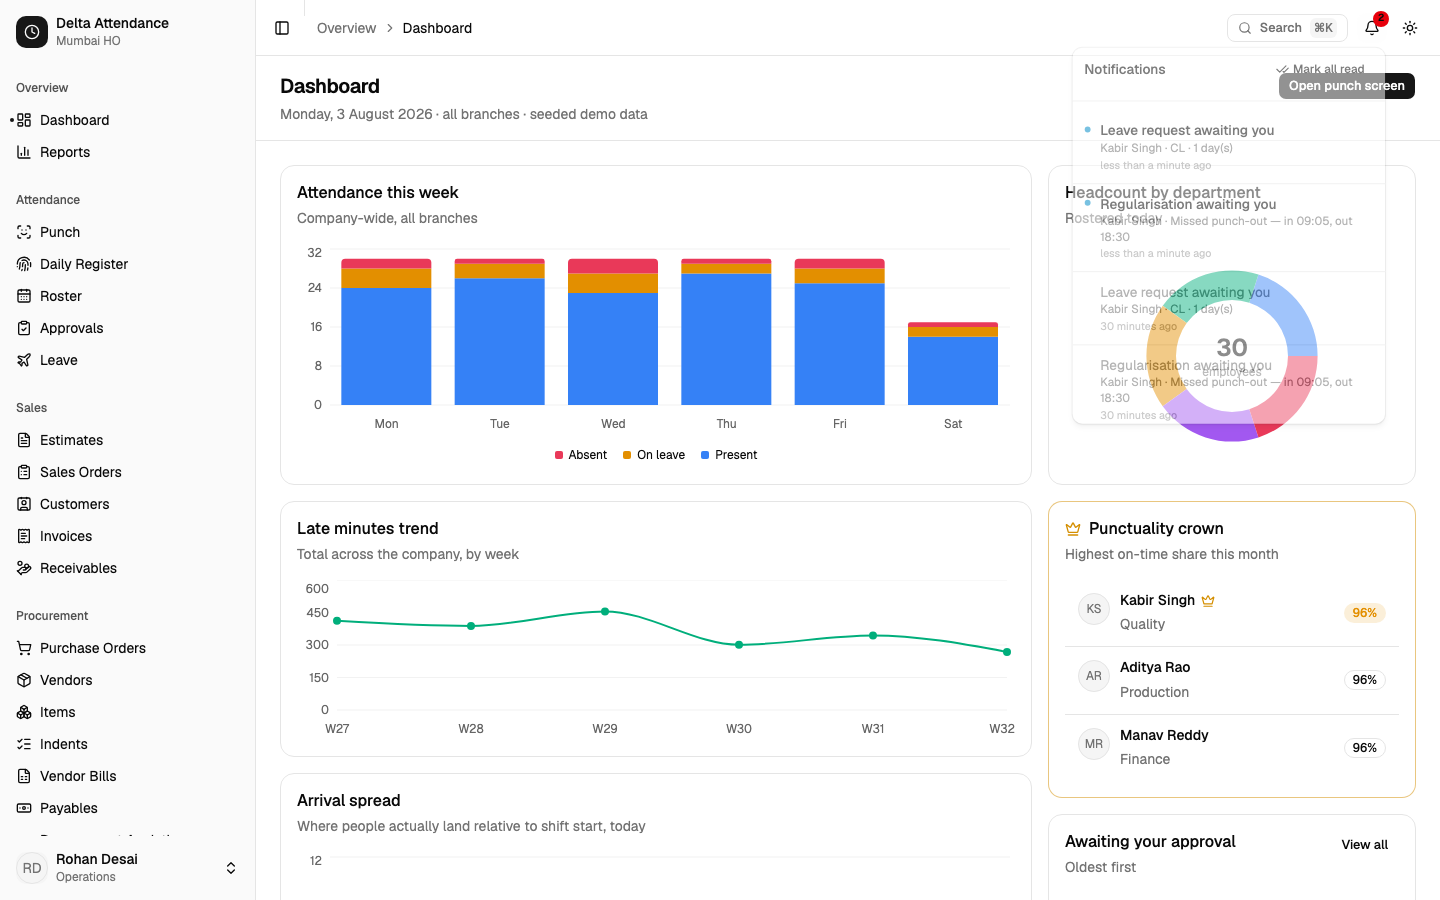
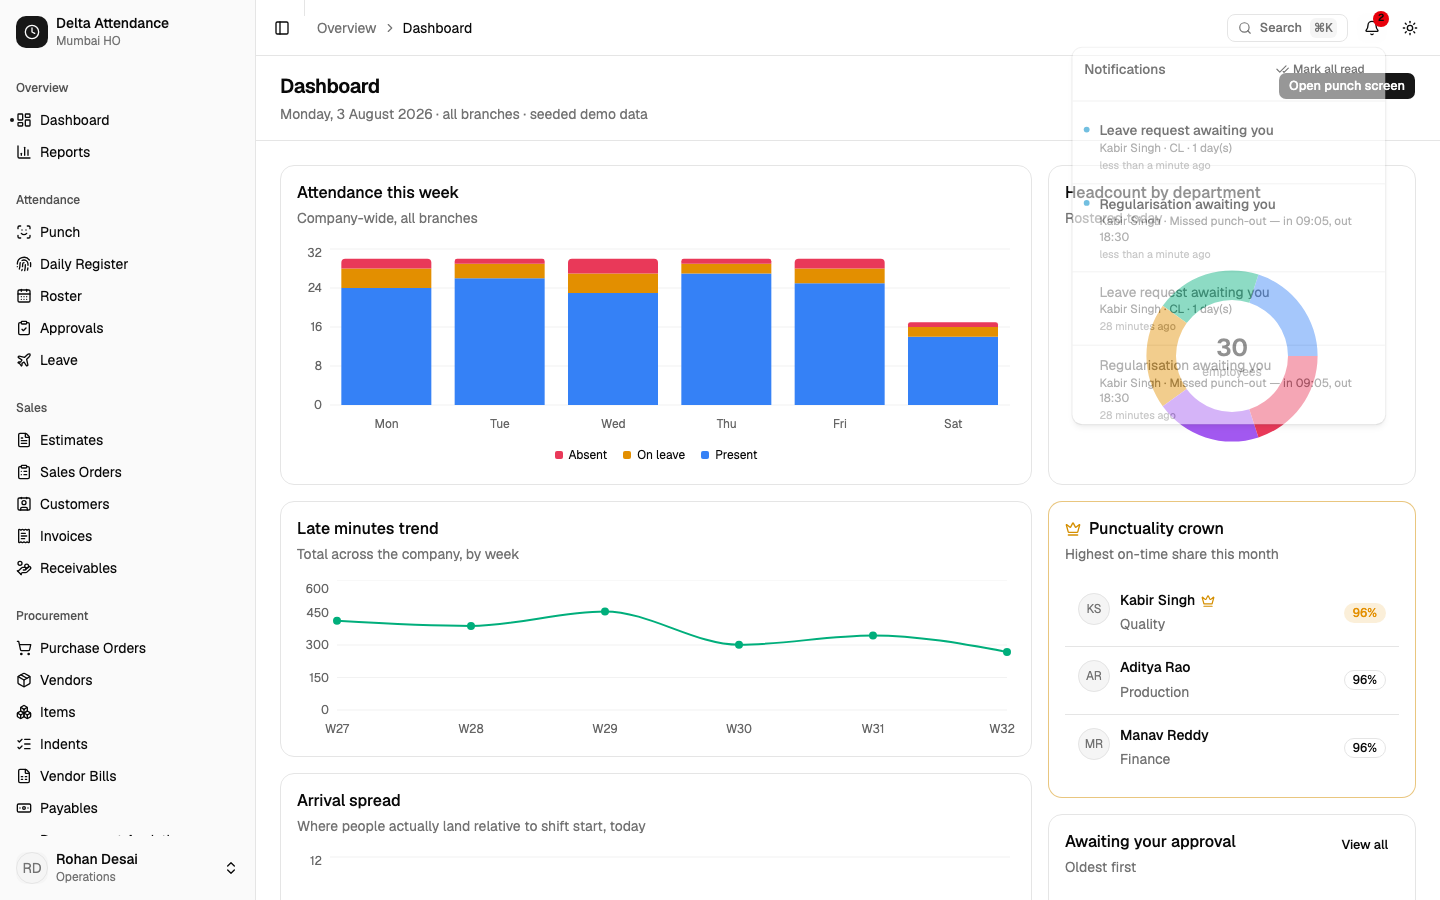
Overtime a corrected day earns can be claimed, capped at what the day computes

diff --git a/apps/api/test/api.test.ts b/apps/api/test/api.test.ts
@@ -2746,3 +2746,111 @@ describe("a month that closes mid-flight cannot be written into", () => {
     expect(store.punches.filter((punch) => punch.businessDate === "2026-08-06")).toHaveLength(0)
   })
 })
+
+describe("overtime a corrected day earns is not stranded", () => {
+  const punch = async (cookie: string, type: "IN" | "OUT", at: string, key: string) =>
+    app.inject({
+      method: "POST",
+      url: "/punches",
+      headers: { cookie },
+      payload: punchBody({ type, at, idempotencyKey: key }),
+    })
+
+  it("a top-up claims only the difference, never the whole day again", async () => {
+    const employee = await asEmployee()
+    // 09:00 → 20:00 on a 9h shift: two hours of overtime.
+    await punch(employee.cookies, "IN", "2026-08-05T09:00", "topup-in-1")
+    await punch(employee.cookies, "OUT", "2026-08-05T20:00", "topup-out-1")
+
+    const first = await app.inject({
+      method: "POST",
+      url: "/overtime/claims",
+      headers: { cookie: employee.cookies },
+      payload: { date: "2026-08-05" },
+    })
+    expect(first.statusCode).toBe(201)
+    const firstMinutes = first.json().otMinutes
+    expect(firstMinutes).toBe(120)
+
+    // Claiming again with nothing new is still refused.
+    const again = await app.inject({
+      method: "POST",
+      url: "/overtime/claims",
+      headers: { cookie: employee.cookies },
+      payload: { date: "2026-08-05" },
+    })
+    expect(again.statusCode).toBe(409)
+    expect(again.json().claimedMinutes).toBe(120)
+
+    // The day grows by an hour — as an approved regularisation would do.
+    store.punches.push({
+      id: "p_topup_late_out",
+      employeeId: "e4",
+      type: "OUT",
+      businessDate: "2026-08-05",
+      offsetMin: 720,
+      at: "2026-08-05T21:00",
+      accuracyM: 0,
+      dayPart: "FULL",
+      flags: ["REGULARISED"],
+      idempotencyKey: "reg_topup_OUT",
+    })
+
+    const topUp = await app.inject({
+      method: "POST",
+      url: "/overtime/claims",
+      headers: { cookie: employee.cookies },
+      payload: { date: "2026-08-05" },
+    })
+    expect(topUp.statusCode).toBe(201)
+    // Only the extra hour, not the whole three.
+    expect(topUp.json().otMinutes).toBe(60)
+
+    const claimed = store.approvals
+      .filter((approval) => approval.kind === "OVERTIME" && approval.dateFrom === "2026-08-05")
+      .reduce((sum, approval) => sum + approval.units, 0)
+    expect(claimed).toBe(180)
+  })
+
+  it("payroll still refuses to pay more than the day earned", async () => {
+    const employee = await asEmployee()
+    await punch(employee.cookies, "IN", "2026-08-05T09:00", "cap-in-1")
+    await punch(employee.cookies, "OUT", "2026-08-05T20:00", "cap-out-1")
+    const claim = await app.inject({
+      method: "POST",
+      url: "/overtime/claims",
+      headers: { cookie: employee.cookies },
+      payload: { date: "2026-08-05" },
+    })
+    const manager = await asOps()
+    await app.inject({
+      method: "POST",
+      url: `/approvals/${claim.json().approval.id}/decide`,
+      headers: { cookie: manager.cookies },
+      payload: { action: "APPROVE", remarks: "ok" },
+    })
+
+    // Someone inflates the approved figure directly.
+    const approval = store.approvals.find((row) => row.id === claim.json().approval.id)!
+    approval.units = 10_000
+
+    const admin = await asAdmin()
+    await app.inject({
+      method: "POST",
+      url: "/payroll/locks",
+      headers: { cookie: admin.cookies },
+      payload: { month: "2026-08" },
+    })
+    const run = await app.inject({
+      method: "POST",
+      url: "/payroll/runs",
+      headers: { cookie: admin.cookies },
+      payload: { month: "2026-08" },
+    })
+    const item = run
+      .json()
+      .run.items.find((candidate: { employeeId: string }) => candidate.employeeId === "e4")
+    // Capped at what the day actually earned.
+    expect(item.otMinutes).toBe(120)
+  })
+})

diff --git a/apps/api/src/server.ts b/apps/api/src/server.ts
@@ -1673,26 +1673,44 @@ export function buildServer(store: Store = seedStore(), options: { exportsDir?: 
       if (day.otMinutes <= 0)
         return reply.code(422).send({ error: "NO_OVERTIME_ON_DAY" })
 
-      const duplicate = store.approvals.find(
-        (approval) =>
-          approval.kind === "OVERTIME" &&
-          approval.employeeId === employee.id &&
-          approval.dateFrom === date &&
-          approval.status !== "REJECTED"
-      )
-      if (duplicate) return reply.code(409).send({ error: "ALREADY_CLAIMED" })
+      /**
+       * Already claimed, in minutes. A flat "one claim per day" rule stranded
+       * overtime an employee genuinely earned: regularise a forgotten
+       * punch-out and the day grows, but the extra minutes could never be
+       * claimed. Only the difference is claimable, so nothing is double-paid
+       * and nothing is lost.
+       */
+      const alreadyClaimed = store.approvals
+        .filter(
+          (approval) =>
+            approval.kind === "OVERTIME" &&
+            approval.employeeId === employee.id &&
+            approval.dateFrom === date &&
+            approval.status !== "REJECTED"
+        )
+        .reduce((sum, approval) => sum + approval.units, 0)
 
-      const hours = (day.otMinutes / 60).toFixed(2)
+      const claimable = day.otMinutes - alreadyClaimed
+      if (claimable <= 0)
+        return reply
+          .code(409)
+          .send({ error: "ALREADY_CLAIMED", claimedMinutes: alreadyClaimed })
+
+      const hours = (claimable / 60).toFixed(2)
       const approval = {
         id: id(store, "req"),
         kind: "OVERTIME" as const,
         employeeId: employee.id,
         subject: `Overtime ${hours} h`,
-        detail: note || `${day.otMinutes} minutes past shift end`,
+        detail:
+          note ||
+          (alreadyClaimed > 0
+            ? `${claimable} further minutes after the day was corrected`
+            : `${claimable} minutes past shift end`),
         dateFrom: date,
         dateTo: date,
         // Minutes, so payroll multiplies without re-deriving anything.
-        units: day.otMinutes,
+        units: claimable,
         status: "PENDING" as const,
         level: 1 as const,
         createdAt: new Date().toISOString(),
@@ -1716,7 +1734,7 @@ export function buildServer(store: Store = seedStore(), options: { exportsDir?: 
         after: { date, minutes: day.otMinutes },
         ip: request.ip,
       })
-      return reply.code(201).send({ approval, otMinutes: day.otMinutes })
+      return reply.code(201).send({ approval, otMinutes: claimable })
     }
   )
 

diff --git a/DECISIONS.md b/DECISIONS.md
@@ -481,6 +481,13 @@ The audit reported that approving leave early "shields" a comp-off credit from e
 
 The half-day test asserting "overtime starts after the shortened expectation" encoded the double-pay; it now asserts the opposite, plus a long-break case that must earn nothing.
 
+## 31. Overtime a corrected day earns (8 Aug 2026)
+
+| # | Decision | Why |
+|---|---|---|
+| O9 | An overtime claim covers **only the minutes not yet claimed** for that day | "One claim per day" stranded overtime genuinely earned: regularise a forgotten punch-out, the day grows by two hours, and those hours could never be claimed. A top-up claims the difference, so nothing is double-paid and nothing is lost. |
+| O10 | Payroll still pays `min(sum of approved, what the day computes)` | The claim path is now more permissive, so the cap matters more. Tested by inflating an approved figure directly: payroll pays what the day earned, not what the record says. |
+
 ## 4. Open items
 
 - **Statutory payroll** (PF/ESI/PT/TDS) still deferred per the 4 Aug decision. The payslip prints gross = net and says so explicitly rather than inventing deduction lines.
